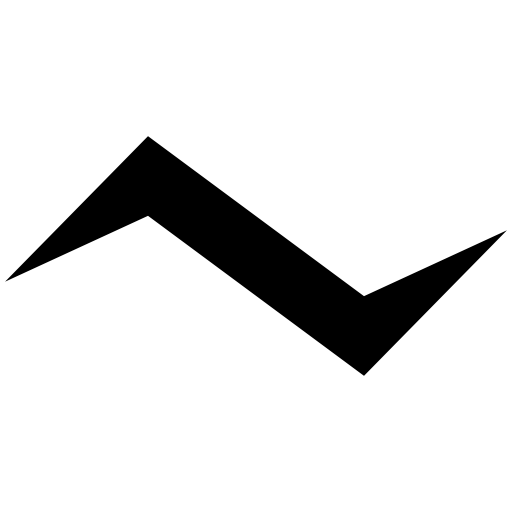
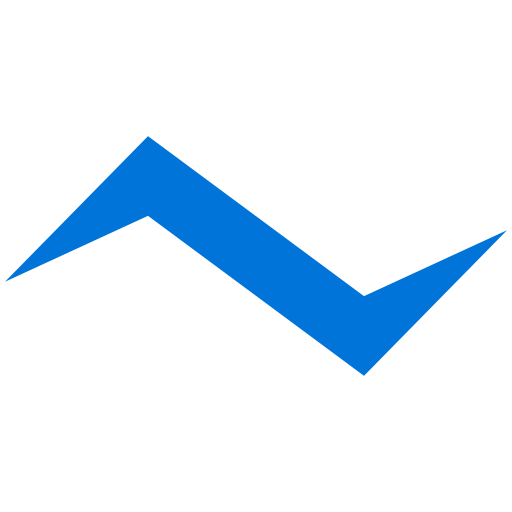
Blue version

Changed region(s): [[0.0, 0.25, 1.0, 0.75]]

diff --git a/scripts/svg.js b/scripts/svg.js
@@ -12,7 +12,7 @@ function render (size) {
     '" height="',
     size,
     '">',
-    React.renderToStaticMarkup(React.createElement(Logo, { size: 32 })),
+    React.renderToStaticMarkup(React.createElement(Logo, { size: 32, fill: config.fill })),
     '</svg>'
   ].join('')
 
